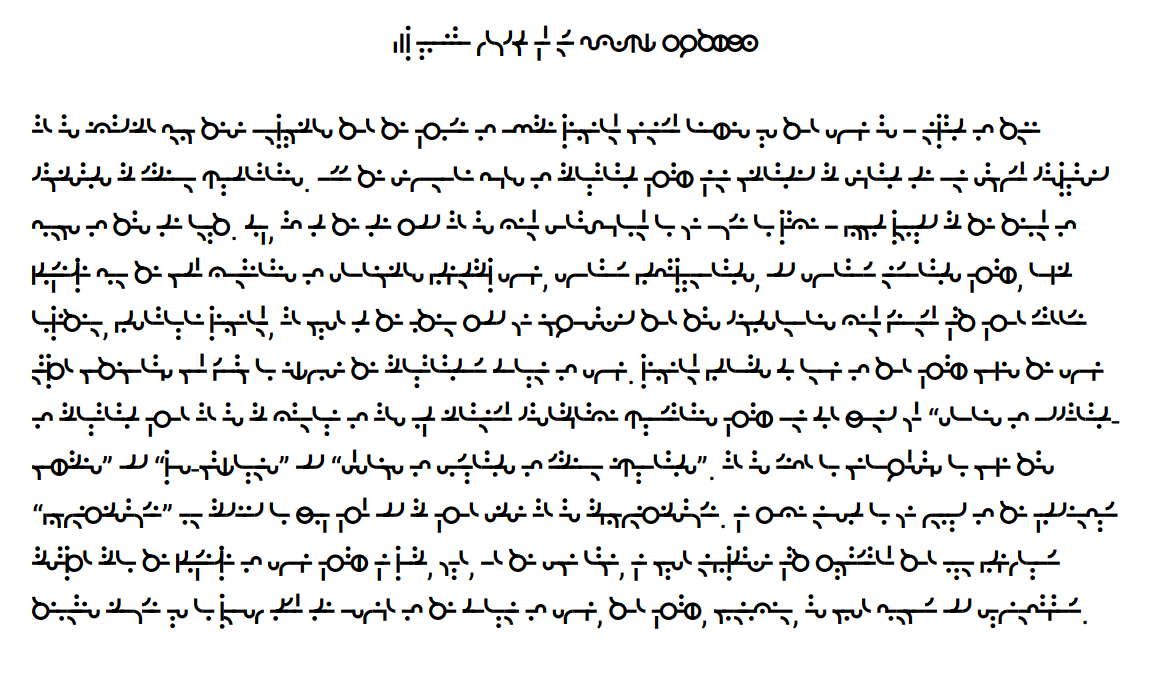
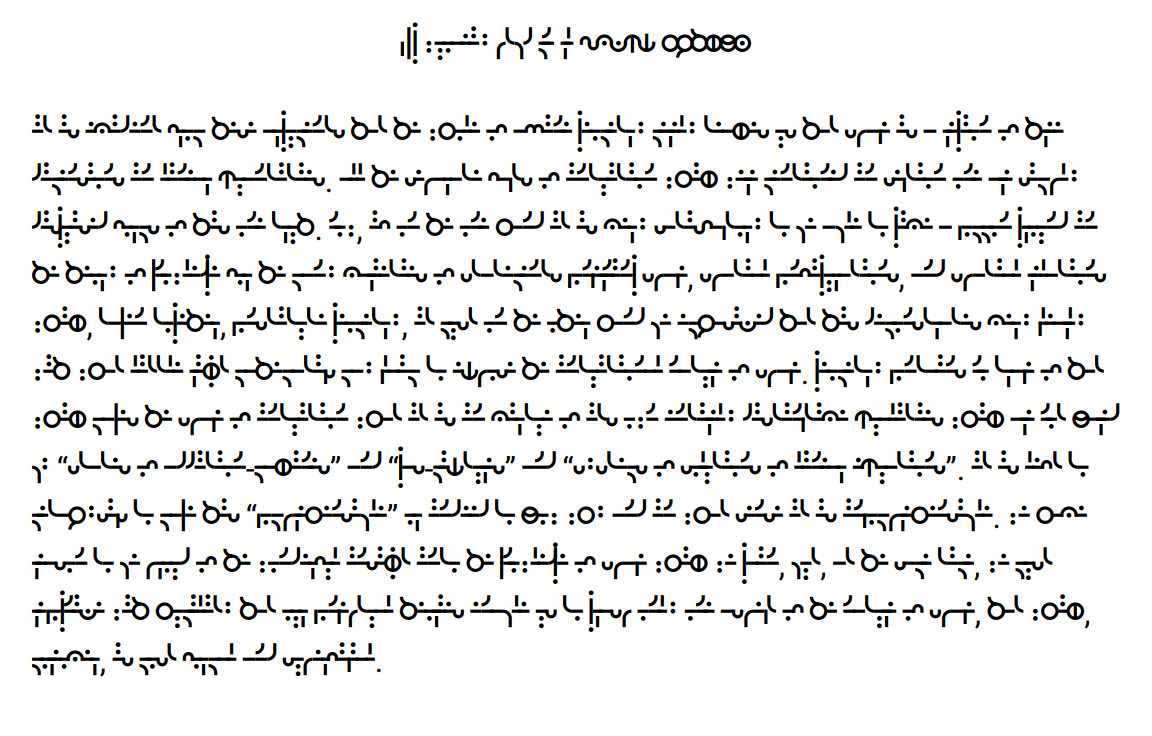
Clarify; reform w/y, m/n, l/r

Changed region(s): [[0.0, 0.1526, 0.9688, 0.9157], [0.3438, 0.0305, 0.6562, 0.0916]]

diff --git a/specimen/specimen.html b/specimen/specimen.html
@@ -55,7 +55,7 @@
   </head>
   <body>
     <section class="affine" style="line-height: 1;text-align: center;">
-      <p>ckg uoaeia ptbdmn wy rl fsvzqx hphthchshj</p>
+      <p>ckg wuoaeiy ptbd mn rl fsvzqx hphthchshj</p>
     </section>
 
     <div class="screen-two-up">
